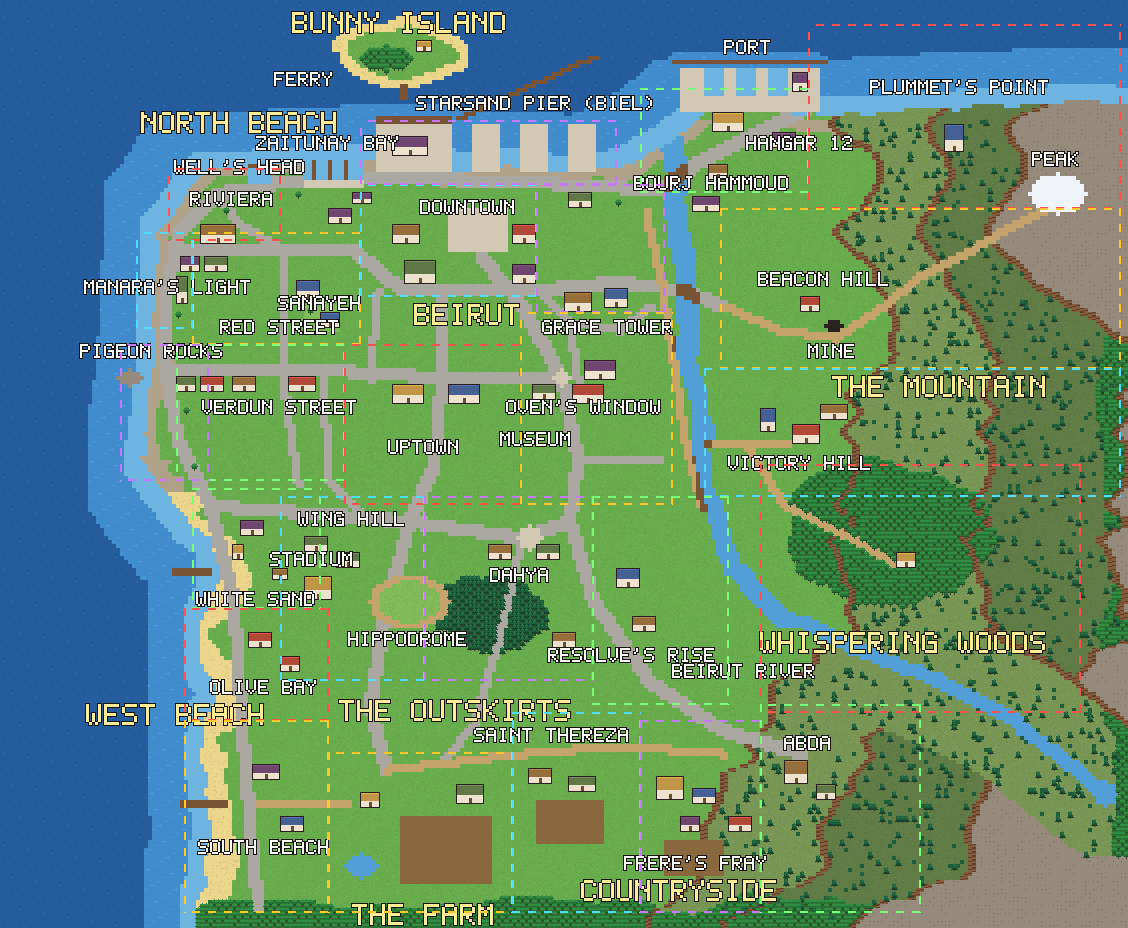
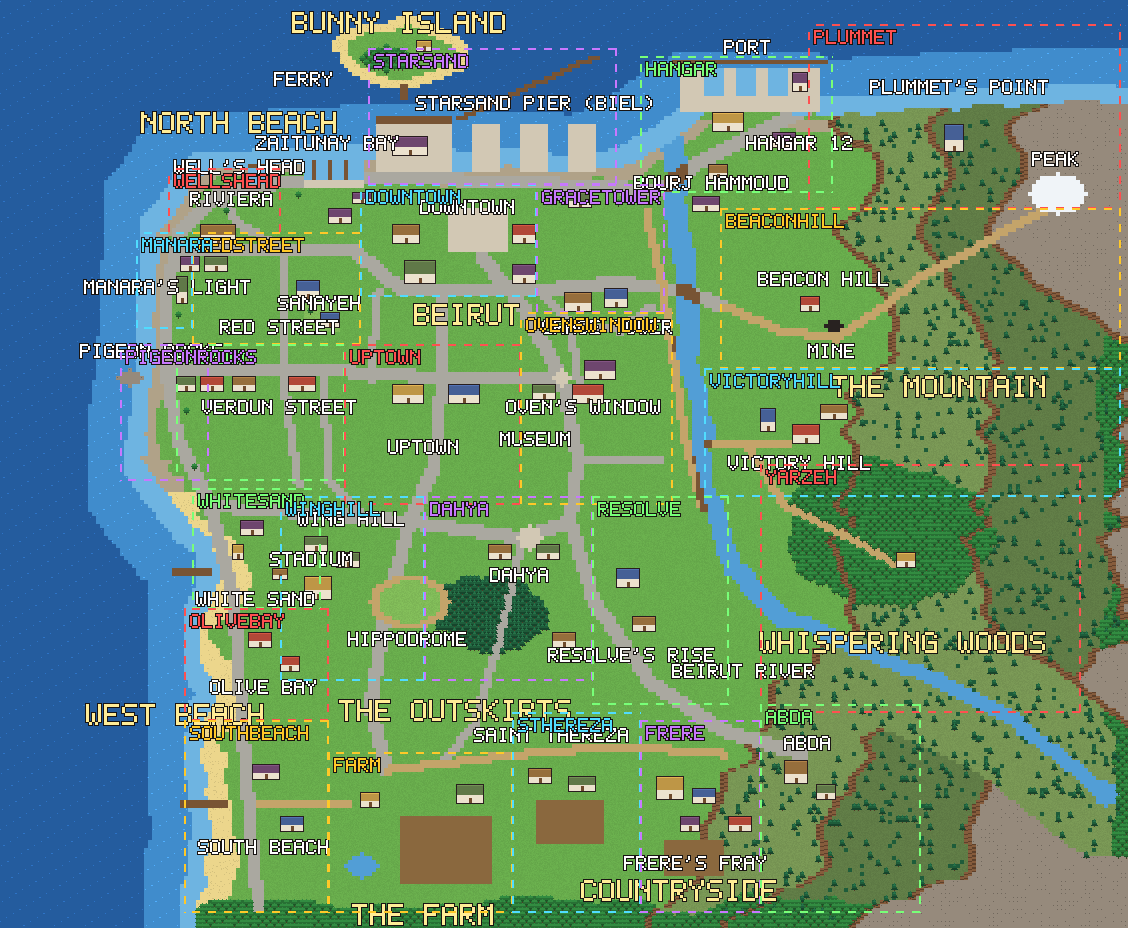
Old rooms on the new map: each outline named; Starsand's and Hangar 12's moved with the waterfront
tools/map/font.js holds the map pictures' pixel font.

diff --git a/tools/map/font.js b/tools/map/font.js
@@ -1,0 +1,30 @@
+// The 5x7 pixel font the map pictures are labelled with (also in tools/map/blueprint.js).
+const F = {
+	A: "01110 10001 10001 11111 10001 10001 10001", B: "11110 10001 10001 11110 10001 10001 11110", C: "01110 10001 10000 10000 10000 10001 01110",
+	D: "11110 10001 10001 10001 10001 10001 11110", E: "11111 10000 10000 11110 10000 10000 11111", F: "11111 10000 10000 11110 10000 10000 10000",
+	G: "01110 10001 10000 10111 10001 10001 01111", H: "10001 10001 10001 11111 10001 10001 10001", I: "01110 00100 00100 00100 00100 00100 01110",
+	J: "00111 00010 00010 00010 00010 10010 01100", K: "10001 10010 10100 11000 10100 10010 10001", L: "10000 10000 10000 10000 10000 10000 11111",
+	M: "10001 11011 10101 10101 10001 10001 10001", N: "10001 11001 10101 10011 10001 10001 10001", O: "01110 10001 10001 10001 10001 10001 01110",
+	P: "11110 10001 10001 11110 10000 10000 10000", Q: "01110 10001 10001 10001 10101 10010 01101", R: "11110 10001 10001 11110 10100 10010 10001",
+	S: "01111 10000 10000 01110 00001 00001 11110", T: "11111 00100 00100 00100 00100 00100 00100", U: "10001 10001 10001 10001 10001 10001 01110",
+	V: "10001 10001 10001 10001 10001 01010 00100", W: "10001 10001 10001 10101 10101 10101 01010", X: "10001 10001 01010 00100 01010 10001 10001",
+	Y: "10001 10001 01010 00100 00100 00100 00100", Z: "11111 00001 00010 00100 01000 10000 11111", "'": "00100 00100 01000 00000 00000 00000 00000",
+	"0": "01110 10011 10101 11001 10001 10001 01110", "1": "00100 01100 00100 00100 00100 00100 01110", "2": "01110 10001 00001 00110 01000 10000 11111",
+	" ": "00000 00000 00000 00000 00000 00000 00000", "(": "00010 00100 01000 01000 01000 00100 00010", ")": "01000 00100 00010 00010 00010 00100 01000",
+	"-": "00000 00000 00000 11111 00000 00000 00000", ".": "00000 00000 00000 00000 00000 01100 01100", ",": "00000 00000 00000 00000 01100 00100 01000",
+};
+// Write _str centred on x at y (top) into a PNG image (tools/rooms/png.js) at scale _sc, outlined in near-black
+function text(img, str, x, y, sc, col){
+	const put = (px, py, c) => { if(px < 0 || py < 0 || px >= img.w || py >= img.h) return; const k = (py * img.w + px) * 4; img.px[k] = c[0]; img.px[k + 1] = c[1]; img.px[k + 2] = c[2]; img.px[k + 3] = 255; };
+	str = str.toUpperCase();
+	let px0 = Math.round(x - str.length * 6 * sc / 2);
+	for(const ch of str){
+		const rows = (F[ch] || F[" "]).split(" ");
+		for(const pass of [0, 1]) for(let r = 0; r < 7; r++) for(let c = 0; c < 5; c++) if(rows[r][c] === "1"){
+			if(pass === 0){ for(let oy = -1; oy <= 1; oy++) for(let ox = -1; ox <= 1; ox++) for(let yy = 0; yy < sc; yy++) for(let xx = 0; xx < sc; xx++) put(px0 + c * sc + xx + ox, y + r * sc + yy + oy, [24, 20, 18]); }
+			else for(let yy = 0; yy < sc; yy++) for(let xx = 0; xx < sc; xx++) put(px0 + c * sc + xx, y + r * sc + yy, col);
+		}
+		px0 += 6 * sc;
+	}
+}
+module.exports = {F, text};

diff --git a/tools/map/old_rooms.js b/tools/map/old_rooms.js
@@ -7,6 +7,7 @@
 const fs = require("fs");
 const path = require("path");
 const {readPng, writePng} = require("../rooms/png.js");
+const {text} = require("./font.js");
 const ROOT = path.join(__dirname, "..", ".."), OUT = path.join(ROOT, "design", "map");
 const M = 30, S = 4;
 // [x1, y1, x2, y2] in world tiles, roughly where the old room's places went
@@ -19,8 +20,8 @@ const OLD = {
 	rm_uptown:      {area: "Beirut", rect: [56, 56, 100, 96]},
 	rm_ovenswindow: {area: "Beirut", rect: [100, 48, 138, 96]},
 	rm_manara:      {area: "North Beach", rect: [4, 28, 18, 52]},
-	rm_starsand:    {area: "North Beach", rect: [60, 0, 124, 16]},
-	rm_hangar:      {area: "North Beach", rect: [130, -8, 172, 18]},
+	rm_starsand:    {area: "North Beach", rect: [62, -18, 124, 16]},
+	rm_hangar:      {area: "North Beach", rect: [130, -16, 178, 18]},
 	rm_plummet:     {area: "The Mountain", rect: [172, -24, 250, 22]},
 	rm_beaconhill:  {area: "The Mountain", rect: [150, 22, 250, 62]},
 	rm_victoryhill: {area: "The Mountain", rect: [146, 62, 250, 94]},
@@ -48,6 +49,12 @@ Object.values(OLD).forEach((o, i) => {
 	const [x1, y1, x2, y2] = o.rect.map((v, k) => (v + M) * S), c = cols[i % cols.length];
 	for(let x = x1; x <= x2; x++) for(let t = 0; t < 2; t++){ if((x >> 3) % 2) continue; put(x, y1 + t, c); put(x, y2 - t, c); }
 	for(let y = y1; y <= y2; y++) for(let t = 0; t < 2; t++){ if((y >> 3) % 2) continue; put(x1 + t, y, c); put(x2 - t, y, c); }
+});
+// Each old room's name in its outline's top-left corner, in its colour
+Object.entries(OLD).forEach(([id, o], i) => {
+	const name = id === "rm_1" ? "farm" : id.replace(/^rm_/, "");
+	const x = (o.rect[0] + M) * S + 6 + name.length * 6, y = (o.rect[1] + M) * S + 6;
+	text(P, name, x, Math.max(2, y), 2, cols[i % cols.length]);
 });
 writePng(path.join(OUT, "old_rooms_on_new.png"), P);
 const old = path.join(ROOT, "build", "world_map.png");
